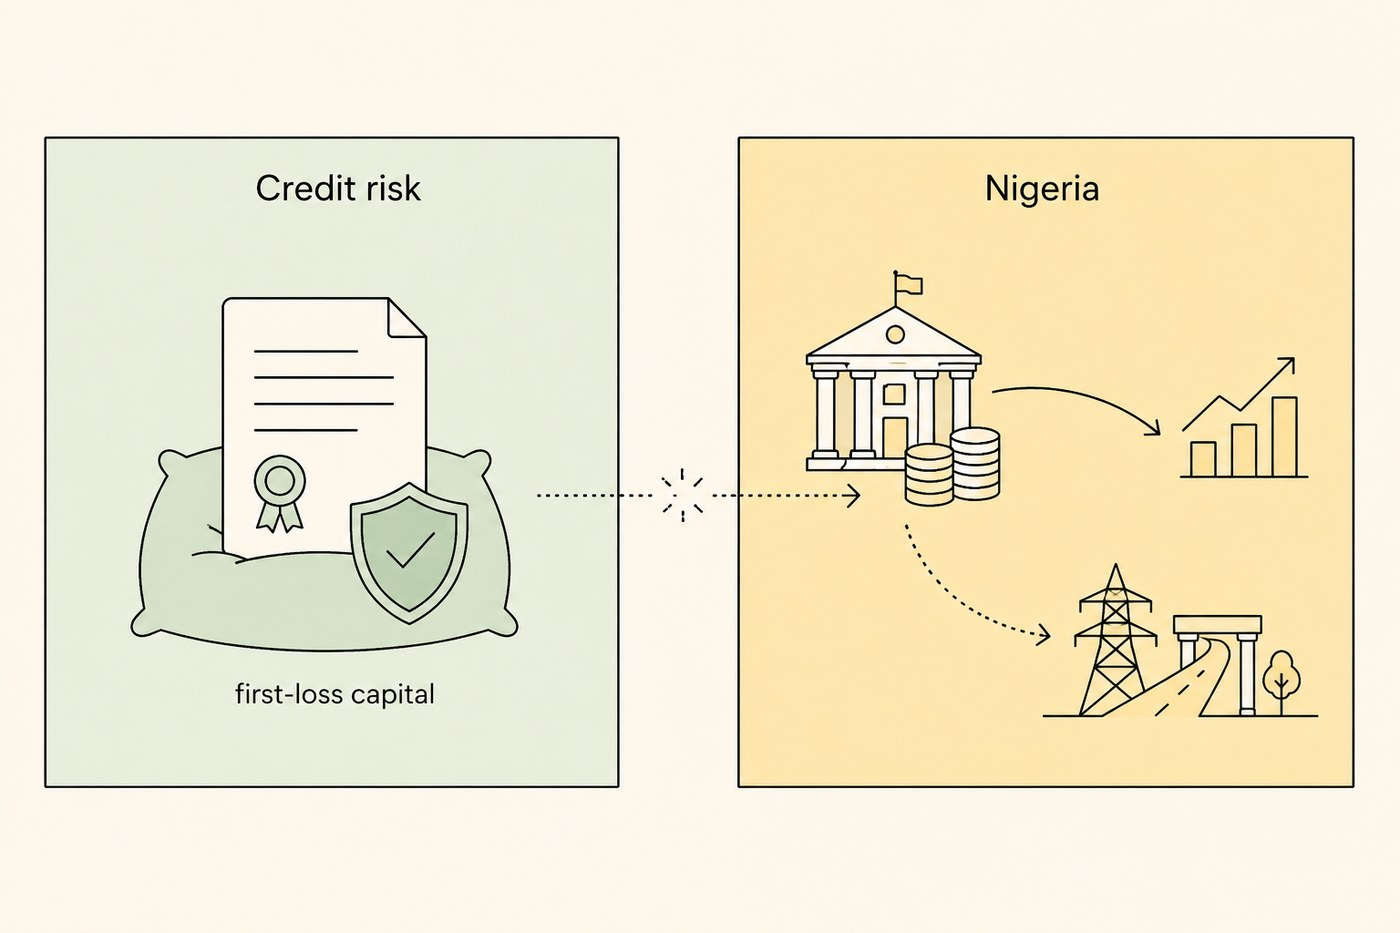
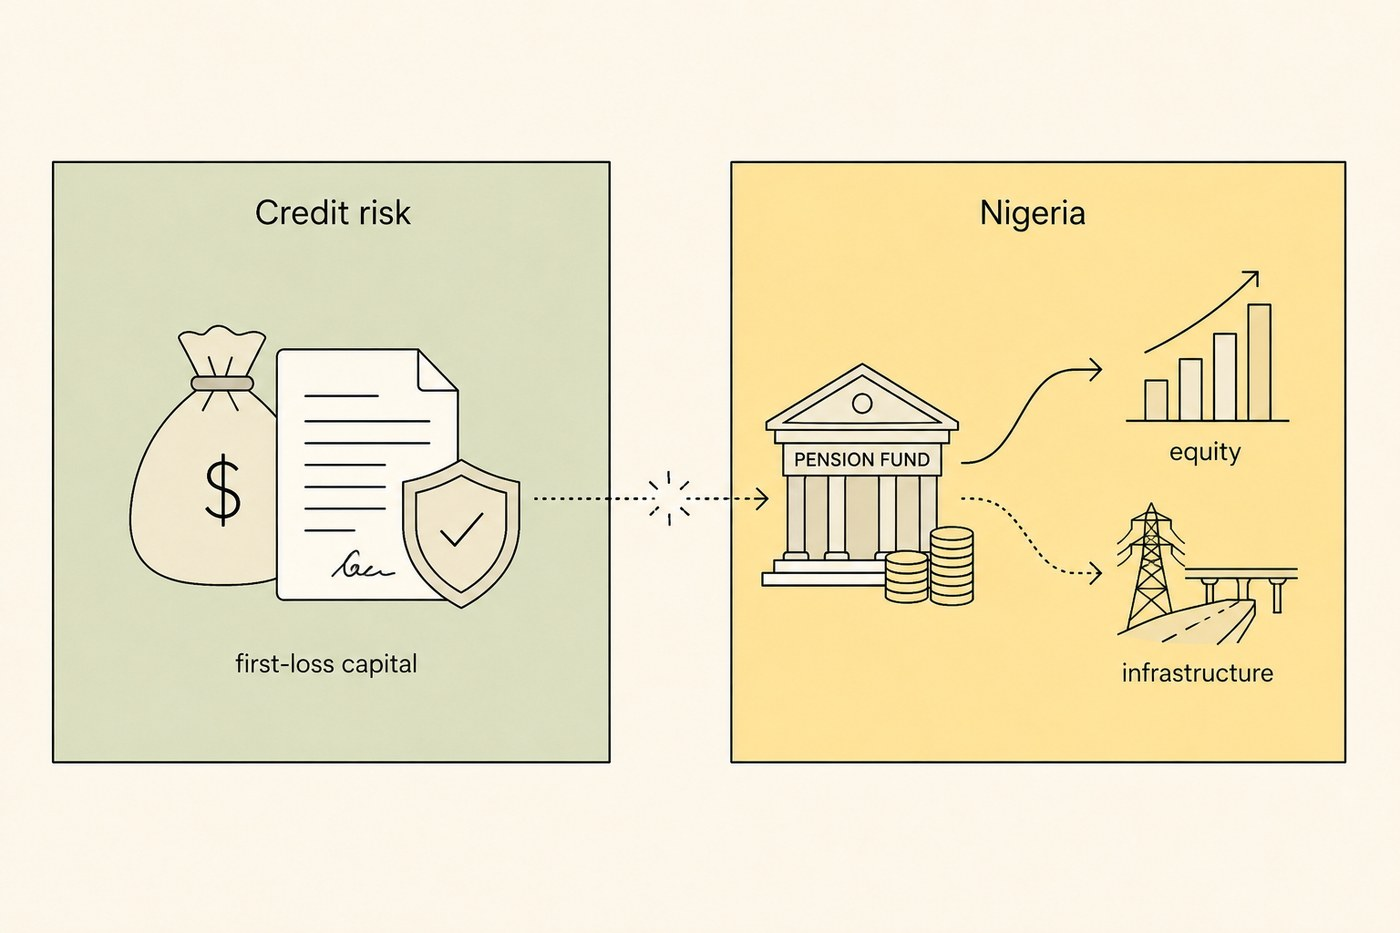
Add hero diagrams to four more articles (batch 6)
the-reporting-loop, ai-absorptive-capacity, absorbing-the-gap, brw — one
line-art diagram per article, resized to 1400px wide at quality 88. Each
article now carries a <figure class="diagram"> right after the article meta
line, and each corresponding entry on /articles switches to the has-thumb
layout. Also refreshes the credit-risk-to-Nigeria alt figure kept alongside
the perceived-risk-vs-real-hurdle hero.

diff --git a/articles.html b/articles.html
@@ -185,22 +185,31 @@
     </div>
   </div>
 
-  <div class="article-item">
-    <a class="article-title" href="/insight-the-reporting-loop">The Reporting Loop: Why Funders Learn From Grantees</a>
-    <div class="article-meta">15 August 2026</div>
-    <p class="article-desc">Why grant portfolios keep looking rosier than they are, why more dashboards and more indicators don't fix it, and what a genuine alternative would have to look like. The reasoning behind the Lab's dedicated <a href="/for-funders">For Funders</a> service.</p>
+  <div class="article-item has-thumb">
+    <a class="article-thumb-link" href="/insight-the-reporting-loop"><img class="article-thumb" src="/assets/img/insight-the-reporting-loop-diagram.jpg" alt="Yellow funder institution at the top, grantees at the bottom, a central reporting dashboard, and two curved arrows forming a closed loop between them."></a>
+    <div class="article-body">
+      <a class="article-title" href="/insight-the-reporting-loop">The Reporting Loop: Why Funders Learn From Grantees</a>
+      <div class="article-meta">15 August 2026</div>
+      <p class="article-desc">Why grant portfolios keep looking rosier than they are, why more dashboards and more indicators don't fix it, and what a genuine alternative would have to look like. The reasoning behind the Lab's dedicated <a href="/for-funders">For Funders</a> service.</p>
+    </div>
   </div>
 
-  <div class="article-item">
-    <a class="article-title" href="/insight-ai-absorptive-capacity">The Asymmetry Nobody Is Metering: Why AI Reaches the Fossil Economy First</a>
-    <div class="article-meta">22 July 2026</div>
-    <p class="article-desc">The climate debate about AI is stuck on electricity consumption. The decisive variable is which sectors are ready to convert AI into productivity, and the fossil economy has a forty-year head start.</p>
+  <div class="article-item has-thumb">
+    <a class="article-thumb-link" href="/insight-ai-absorptive-capacity"><img class="article-thumb" src="/assets/img/insight-ai-absorptive-capacity-diagram.jpg" alt="AI chip on the left, a heavy coral arrow to a fossil-economy panel with a refinery and pumpjack, and a thin dashed arrow to a clean-economy panel with a turbine, solar and battery."></a>
+    <div class="article-body">
+      <a class="article-title" href="/insight-ai-absorptive-capacity">The Asymmetry Nobody Is Metering: Why AI Reaches the Fossil Economy First</a>
+      <div class="article-meta">22 July 2026</div>
+      <p class="article-desc">The climate debate about AI is stuck on electricity consumption. The decisive variable is which sectors are ready to convert AI into productivity, and the fossil economy has a forty-year head start.</p>
+    </div>
   </div>
 
-  <div class="article-item">
-    <a class="article-title" href="/insight-absorbing-the-gap">Who Absorbs the Gap: Electric Mobility Where the Grid Cannot Be Assumed</a>
-    <div class="article-meta">18 June 2026</div>
-    <p class="article-desc">Where the grid is unreliable, adoption is decided by which party absorbs the volatility. A reliability ledger for reading market-entry decisions in e-mobility.</p>
+  <div class="article-item has-thumb">
+    <a class="article-thumb-link" href="/insight-absorbing-the-gap"><img class="article-thumb" src="/assets/img/insight-absorbing-the-gap-diagram.jpg" alt="Three-stage diagram: unreliable grid with a broken pylon on the left, a central scales circle labelled 'Who absorbs the gap?' with rider, building and renewables satellites, and an e-motorcycle beside a swap cabinet on the right."></a>
+    <div class="article-body">
+      <a class="article-title" href="/insight-absorbing-the-gap">Who Absorbs the Gap: Electric Mobility Where the Grid Cannot Be Assumed</a>
+      <div class="article-meta">18 June 2026</div>
+      <p class="article-desc">Where the grid is unreliable, adoption is decided by which party absorbs the volatility. A reliability ledger for reading market-entry decisions in e-mobility.</p>
+    </div>
   </div>
 
   <div class="article-item has-thumb">
@@ -218,10 +227,13 @@
     <p class="article-desc">A two-axis diagnostic that sorts every real transition into one of four patterns: directed, coordinated, stalled, or bounded leapfrogging. Where each fails, and how the Lab reads its own cases against the matrix.</p>
   </div>
 
-  <div class="article-item">
-    <a class="article-title" href="/brw">The BRW Framework: Bypass, Repurpose, Weaken</a>
-    <div class="article-meta">24 March 2026</div>
-    <p class="article-desc">The Lab's signature typology of how new infrastructure engages the systems it arrives into. Three mechanisms, matched to the three barriers a niche technology actually meets.</p>
+  <div class="article-item has-thumb">
+    <a class="article-thumb-link" href="/brw"><img class="article-thumb" src="/assets/img/brw-diagram.jpg" alt="Plain brick wall on the left with a dashed detour path curving past it and finishing as an arrow on the right."></a>
+    <div class="article-body">
+      <a class="article-title" href="/brw">The BRW Framework: Bypass, Repurpose, Weaken</a>
+      <div class="article-meta">24 March 2026</div>
+      <p class="article-desc">The Lab's signature typology of how new infrastructure engages the systems it arrives into. Three mechanisms, matched to the three barriers a niche technology actually meets.</p>
+    </div>
   </div>
 
   <div class="article-item">

diff --git a/insight-the-reporting-loop.html b/insight-the-reporting-loop.html
@@ -100,6 +100,10 @@
     <div class="prose">
       
       <p class="article-meta"><span class="article-date">22 August 2026</span> · <span class="article-reading-time">8 min read</span></p>
+<figure>
+<img src="/assets/img/insight-the-reporting-loop-diagram.jpg" alt="Line-art diagram: a yellow classical funder building labelled 'Funders' at the top and a bottom scene with a house, two people crouched planting a seedling, labelled 'Grantees'. Between them, a central dashboard with a pie chart and a bar chart labelled 'Reporting loop'. A coral upward arrow curves from grantees to funders on the left; a green downward arrow curves back on the right." class="diagram">
+<figcaption>The grantee at the bottom produces the evidence. The funder at the top decides the next grant on it. Everyone acts in good faith, and the loop still produces a systematically flattering picture, because it is built to.</figcaption>
+</figure>
 <p>There is a structural oddity at the heart of philanthropy and public funding that almost no one names, because naming it is awkward for everyone involved. The funder wants to know whether its money worked. The only party positioned to tell it is the grantee. And the grantee's continued existence depends on the answer being yes.</p>
 <p>This is the reporting loop: a closed circuit in which the organisation being evaluated is also the organisation supplying the evaluation, to a funder who will decide, on the strength of that evaluation, whether to fund it again. Everyone in the loop is acting in good faith. The loop still produces a systematically flattering picture, because it is built to.</p>
 <p>This piece is about why that loop persists, why the usual fixes do not fix it, and what a genuine alternative would have to look like. It is also, in the interest of being straight with the reader, the thinking behind <a href="/for-funders">a service the Lab has built for funders</a>. We would rather explain the reasoning than pretend the reasoning is disinterested.</p>

diff --git a/insight-absorbing-the-gap.html b/insight-absorbing-the-gap.html
@@ -100,6 +100,10 @@
     <div class="prose">
       
       <p class="article-meta"><span class="article-date">22 August 2026</span> · <span class="article-reading-time">8 min read</span></p>
+<figure>
+<img src="/assets/img/insight-absorbing-the-gap-diagram.jpg" alt="Line-art diagram in three stages. On the left, 'Unreliable grid': a leaning pylon with a red cross, orange lightning bolts, and a transformer. In the middle, 'Who absorbs the gap?': a yellow scales circle in the centre with three satellite circles (a rider in a helmet, a small building, and a renewable-energy icon) connected by dotted lines. On the right, 'E-mobility': an electric motorcycle beside a battery-swap cabinet." class="diagram">
+<figcaption>The grid on the left is unreliable. The market on the right forms anyway. The scales in the middle are the decision that decides which party carries the volatility, and whether they can survive holding it.</figcaption>
+</figure>
 <h2>Electric mobility where the grid cannot be assumed</h2>
 <p>In Lagos this year, some electric-vehicle dealerships and battery-swap stations kept their chargers running on petrol and diesel generators. Nigeria waived taxes on nearly four thousand electric vehicles in the first half of 2026, added VAT exemptions and zero import duties, and watched the vehicles arrive into an electricity system of roughly four thousand megawatts serving more than two hundred million people.</p>
 <p>The easy response is irony. Electric vehicles charged by diesel. A transition that is not a transition.</p>

diff --git a/brw.html b/brw.html
@@ -100,6 +100,10 @@
     <div class="prose">
       
       <p class="article-meta"><span class="article-date">July 2026</span> · <span class="article-reading-time">3 min read</span></p>
+<figure>
+<img src="/assets/img/brw-diagram.jpg" alt="Line-art diagram on a sage-green panel: a plain brick wall stands on the left; a dashed path curves around it from below and finishes as an arrow pointing up and away on the right." class="diagram">
+<figcaption>The wall is the incumbent regime. The dashed path is what the niche actually does in practice: bypass where it can, repurpose what it must, weaken what it cannot avoid.</figcaption>
+</figure>
 <p>Every niche technology arrives into a world already run by an incumbent regime: an aligned configuration of technologies, infrastructures, institutions, habits, and expectations that resists change. How a niche actor engages that regime, barrier by barrier, largely determines whether it succeeds and for whom.</p>
 <p>The BRW framework is the Lab's way of reading that engagement. Unlike typologies that classify a strategy by its ambition relative to the regime as a whole, BRW classifies each strategy by its <strong>functional mechanism</strong>: what it actually does to a particular lock-in barrier. This shift in the unit of analysis, from the niche-regime relationship to the strategy-barrier relationship, is what makes the framework precise, because a single niche actor routinely deploys different mechanisms against different barriers within the same regime.</p>
 <hr>

diff --git a/insight-ai-absorptive-capacity.html b/insight-ai-absorptive-capacity.html
@@ -100,6 +100,10 @@
     <div class="prose">
       
       <p class="article-meta"><span class="article-date">22 August 2026</span> · <span class="article-reading-time">8 min read</span></p>
+<figure>
+<img src="/assets/img/insight-ai-absorptive-capacity-diagram.jpg" alt="Line-art diagram: an 'AI' chip with radiating pins on the left. A thick coral arrow leads to a red panel labelled 'Fossil economy' containing a refinery, a factory and an oil pumpjack. A thin dashed arrow leads to a yellow panel below labelled 'Clean economy' containing a wind turbine, a solar panel and a battery." class="diagram">
+<figcaption>AI reaches the fossil economy first because that is the economy already built to absorb it. The clean economy has a forty-year head-start to close before the metering starts to move.</figcaption>
+</figure>
 <h2>Why AI reaches the fossil economy first</h2>
 <p>Two things happened this month that belong in the same argument, and are almost never placed there.</p>
 <p>Nvidia took a minority stake in Cloverleaf Infrastructure, a developer of power-ready sites for data centres, which works directly with utilities, energy companies and investors to secure electricity and land. Nvidia will also supply technology for optimising site selection, cooling, power and compute. It follows a separate one-and-a-half-billion-dollar investment in SB Energy. A chip company is moving down its own supply chain into electrons.</p>

diff --git a/content/articles.md b/content/articles.md
@@ -93,22 +93,31 @@ The Lab publishes articles for the same reason it takes on any research: some qu
     </div>
   </div>
 
-  <div class="article-item">
-    <a class="article-title" href="/insight-the-reporting-loop">The Reporting Loop: Why Funders Learn From Grantees</a>
-    <div class="article-meta">15 August 2026</div>
-    <p class="article-desc">Why grant portfolios keep looking rosier than they are, why more dashboards and more indicators don't fix it, and what a genuine alternative would have to look like. The reasoning behind the Lab's dedicated <a href="/for-funders">For Funders</a> service.</p>
+  <div class="article-item has-thumb">
+    <a class="article-thumb-link" href="/insight-the-reporting-loop"><img class="article-thumb" src="/assets/img/insight-the-reporting-loop-diagram.jpg" alt="Yellow funder institution at the top, grantees at the bottom, a central reporting dashboard, and two curved arrows forming a closed loop between them."></a>
+    <div class="article-body">
+      <a class="article-title" href="/insight-the-reporting-loop">The Reporting Loop: Why Funders Learn From Grantees</a>
+      <div class="article-meta">15 August 2026</div>
+      <p class="article-desc">Why grant portfolios keep looking rosier than they are, why more dashboards and more indicators don't fix it, and what a genuine alternative would have to look like. The reasoning behind the Lab's dedicated <a href="/for-funders">For Funders</a> service.</p>
+    </div>
   </div>
 
-  <div class="article-item">
-    <a class="article-title" href="/insight-ai-absorptive-capacity">The Asymmetry Nobody Is Metering: Why AI Reaches the Fossil Economy First</a>
-    <div class="article-meta">22 July 2026</div>
-    <p class="article-desc">The climate debate about AI is stuck on electricity consumption. The decisive variable is which sectors are ready to convert AI into productivity, and the fossil economy has a forty-year head start.</p>
+  <div class="article-item has-thumb">
+    <a class="article-thumb-link" href="/insight-ai-absorptive-capacity"><img class="article-thumb" src="/assets/img/insight-ai-absorptive-capacity-diagram.jpg" alt="AI chip on the left, a heavy coral arrow to a fossil-economy panel with a refinery and pumpjack, and a thin dashed arrow to a clean-economy panel with a turbine, solar and battery."></a>
+    <div class="article-body">
+      <a class="article-title" href="/insight-ai-absorptive-capacity">The Asymmetry Nobody Is Metering: Why AI Reaches the Fossil Economy First</a>
+      <div class="article-meta">22 July 2026</div>
+      <p class="article-desc">The climate debate about AI is stuck on electricity consumption. The decisive variable is which sectors are ready to convert AI into productivity, and the fossil economy has a forty-year head start.</p>
+    </div>
   </div>
 
-  <div class="article-item">
-    <a class="article-title" href="/insight-absorbing-the-gap">Who Absorbs the Gap: Electric Mobility Where the Grid Cannot Be Assumed</a>
-    <div class="article-meta">18 June 2026</div>
-    <p class="article-desc">Where the grid is unreliable, adoption is decided by which party absorbs the volatility. A reliability ledger for reading market-entry decisions in e-mobility.</p>
+  <div class="article-item has-thumb">
+    <a class="article-thumb-link" href="/insight-absorbing-the-gap"><img class="article-thumb" src="/assets/img/insight-absorbing-the-gap-diagram.jpg" alt="Three-stage diagram: unreliable grid with a broken pylon on the left, a central scales circle labelled 'Who absorbs the gap?' with rider, building and renewables satellites, and an e-motorcycle beside a swap cabinet on the right."></a>
+    <div class="article-body">
+      <a class="article-title" href="/insight-absorbing-the-gap">Who Absorbs the Gap: Electric Mobility Where the Grid Cannot Be Assumed</a>
+      <div class="article-meta">18 June 2026</div>
+      <p class="article-desc">Where the grid is unreliable, adoption is decided by which party absorbs the volatility. A reliability ledger for reading market-entry decisions in e-mobility.</p>
+    </div>
   </div>
 
   <div class="article-item has-thumb">
@@ -126,10 +135,13 @@ The Lab publishes articles for the same reason it takes on any research: some qu
     <p class="article-desc">A two-axis diagnostic that sorts every real transition into one of four patterns: directed, coordinated, stalled, or bounded leapfrogging. Where each fails, and how the Lab reads its own cases against the matrix.</p>
   </div>
 
-  <div class="article-item">
-    <a class="article-title" href="/brw">The BRW Framework: Bypass, Repurpose, Weaken</a>
-    <div class="article-meta">24 March 2026</div>
-    <p class="article-desc">The Lab's signature typology of how new infrastructure engages the systems it arrives into. Three mechanisms, matched to the three barriers a niche technology actually meets.</p>
+  <div class="article-item has-thumb">
+    <a class="article-thumb-link" href="/brw"><img class="article-thumb" src="/assets/img/brw-diagram.jpg" alt="Plain brick wall on the left with a dashed detour path curving past it and finishing as an arrow on the right."></a>
+    <div class="article-body">
+      <a class="article-title" href="/brw">The BRW Framework: Bypass, Repurpose, Weaken</a>
+      <div class="article-meta">24 March 2026</div>
+      <p class="article-desc">The Lab's signature typology of how new infrastructure engages the systems it arrives into. Three mechanisms, matched to the three barriers a niche technology actually meets.</p>
+    </div>
   </div>
 
   <div class="article-item">

diff --git a/content/insight-the-reporting-loop.md b/content/insight-the-reporting-loop.md
@@ -6,6 +6,12 @@
 
 <p class="article-meta"><span class="article-date">22 August 2026</span> · <span class="article-reading-time">8 min read</span></p>
 
+<figure>
+<img src="/assets/img/insight-the-reporting-loop-diagram.jpg" alt="Line-art diagram: a yellow classical funder building labelled 'Funders' at the top and a bottom scene with a house, two people crouched planting a seedling, labelled 'Grantees'. Between them, a central dashboard with a pie chart and a bar chart labelled 'Reporting loop'. A coral upward arrow curves from grantees to funders on the left; a green downward arrow curves back on the right." class="diagram">
+<figcaption>The grantee at the bottom produces the evidence. The funder at the top decides the next grant on it. Everyone acts in good faith, and the loop still produces a systematically flattering picture, because it is built to.</figcaption>
+</figure>
+
+
 There is a structural oddity at the heart of philanthropy and public funding that almost no one names, because naming it is awkward for everyone involved. The funder wants to know whether its money worked. The only party positioned to tell it is the grantee. And the grantee's continued existence depends on the answer being yes.
 
 This is the reporting loop: a closed circuit in which the organisation being evaluated is also the organisation supplying the evaluation, to a funder who will decide, on the strength of that evaluation, whether to fund it again. Everyone in the loop is acting in good faith. The loop still produces a systematically flattering picture, because it is built to.

diff --git a/content/brw.md b/content/brw.md
@@ -6,6 +6,12 @@
 
 <p class="article-meta"><span class="article-date">July 2026</span> · <span class="article-reading-time">3 min read</span></p>
 
+<figure>
+<img src="/assets/img/brw-diagram.jpg" alt="Line-art diagram on a sage-green panel: a plain brick wall stands on the left; a dashed path curves around it from below and finishes as an arrow pointing up and away on the right." class="diagram">
+<figcaption>The wall is the incumbent regime. The dashed path is what the niche actually does in practice: bypass where it can, repurpose what it must, weaken what it cannot avoid.</figcaption>
+</figure>
+
+
 Every niche technology arrives into a world already run by an incumbent regime: an aligned configuration of technologies, infrastructures, institutions, habits, and expectations that resists change. How a niche actor engages that regime, barrier by barrier, largely determines whether it succeeds and for whom.
 
 The BRW framework is the Lab's way of reading that engagement. Unlike typologies that classify a strategy by its ambition relative to the regime as a whole, BRW classifies each strategy by its **functional mechanism**: what it actually does to a particular lock-in barrier. This shift in the unit of analysis, from the niche-regime relationship to the strategy-barrier relationship, is what makes the framework precise, because a single niche actor routinely deploys different mechanisms against different barriers within the same regime.

diff --git a/content/insight-absorbing-the-gap.md b/content/insight-absorbing-the-gap.md
@@ -6,6 +6,12 @@
 
 <p class="article-meta"><span class="article-date">22 August 2026</span> · <span class="article-reading-time">8 min read</span></p>
 
+<figure>
+<img src="/assets/img/insight-absorbing-the-gap-diagram.jpg" alt="Line-art diagram in three stages. On the left, 'Unreliable grid': a leaning pylon with a red cross, orange lightning bolts, and a transformer. In the middle, 'Who absorbs the gap?': a yellow scales circle in the centre with three satellite circles (a rider in a helmet, a small building, and a renewable-energy icon) connected by dotted lines. On the right, 'E-mobility': an electric motorcycle beside a battery-swap cabinet." class="diagram">
+<figcaption>The grid on the left is unreliable. The market on the right forms anyway. The scales in the middle are the decision that decides which party carries the volatility, and whether they can survive holding it.</figcaption>
+</figure>
+
+
 ## Electric mobility where the grid cannot be assumed
 
 In Lagos this year, some electric-vehicle dealerships and battery-swap stations kept their chargers running on petrol and diesel generators. Nigeria waived taxes on nearly four thousand electric vehicles in the first half of 2026, added VAT exemptions and zero import duties, and watched the vehicles arrive into an electricity system of roughly four thousand megawatts serving more than two hundred million people.

diff --git a/content/insight-ai-absorptive-capacity.md b/content/insight-ai-absorptive-capacity.md
@@ -6,6 +6,12 @@
 
 <p class="article-meta"><span class="article-date">22 August 2026</span> · <span class="article-reading-time">8 min read</span></p>
 
+<figure>
+<img src="/assets/img/insight-ai-absorptive-capacity-diagram.jpg" alt="Line-art diagram: an 'AI' chip with radiating pins on the left. A thick coral arrow leads to a red panel labelled 'Fossil economy' containing a refinery, a factory and an oil pumpjack. A thin dashed arrow leads to a yellow panel below labelled 'Clean economy' containing a wind turbine, a solar panel and a battery." class="diagram">
+<figcaption>AI reaches the fossil economy first because that is the economy already built to absorb it. The clean economy has a forty-year head-start to close before the metering starts to move.</figcaption>
+</figure>
+
+
 ## Why AI reaches the fossil economy first
 
 Two things happened this month that belong in the same argument, and are almost never placed there.
